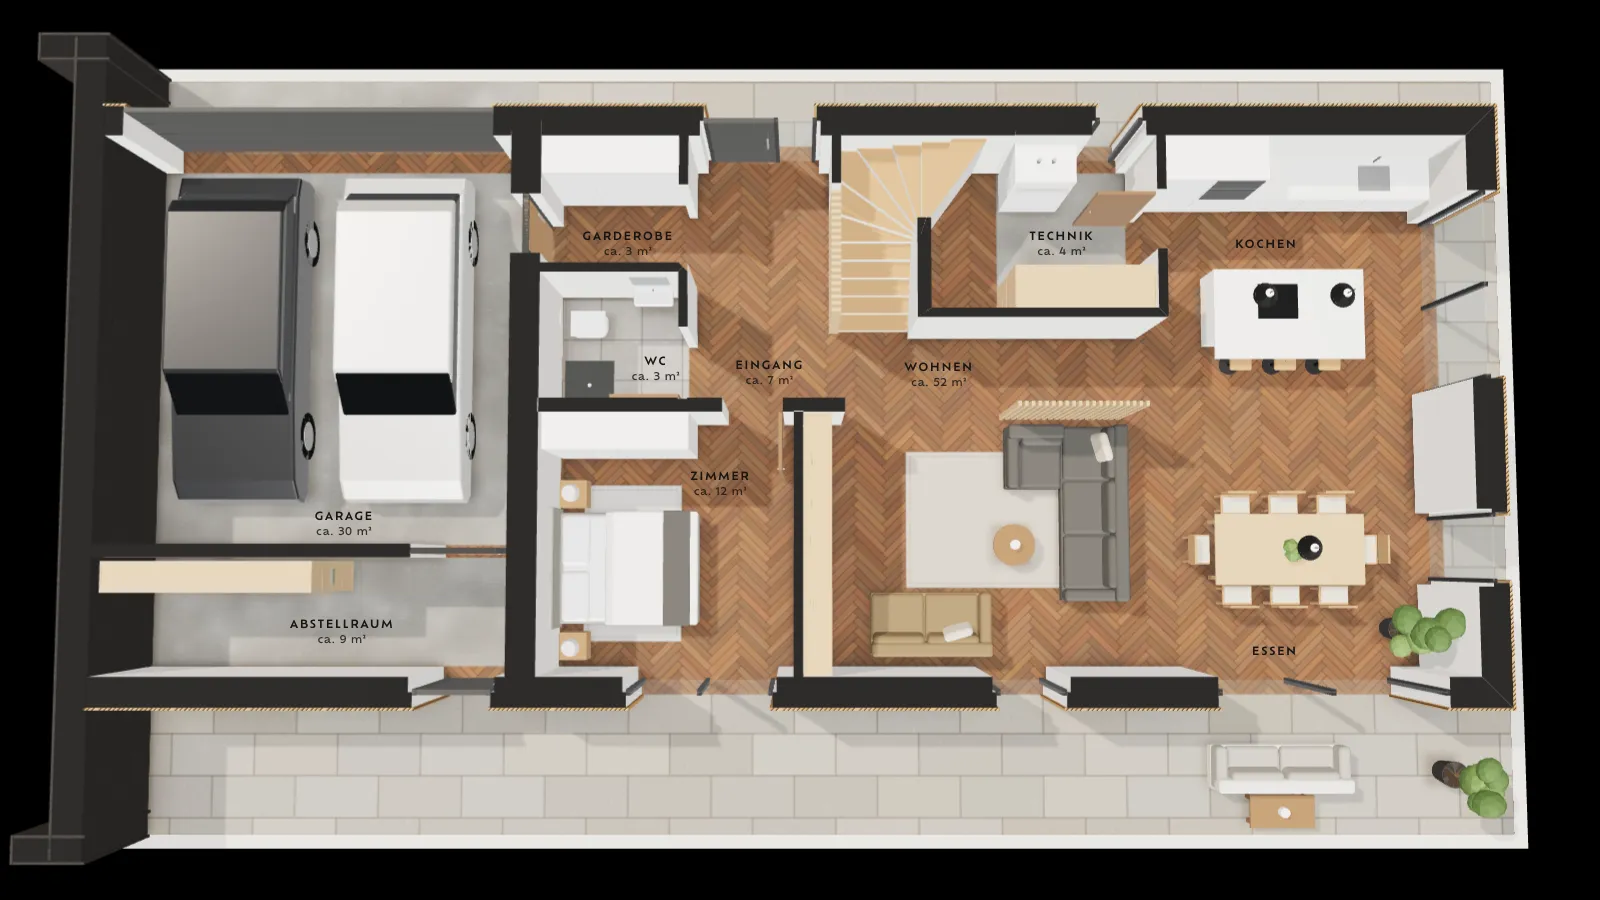
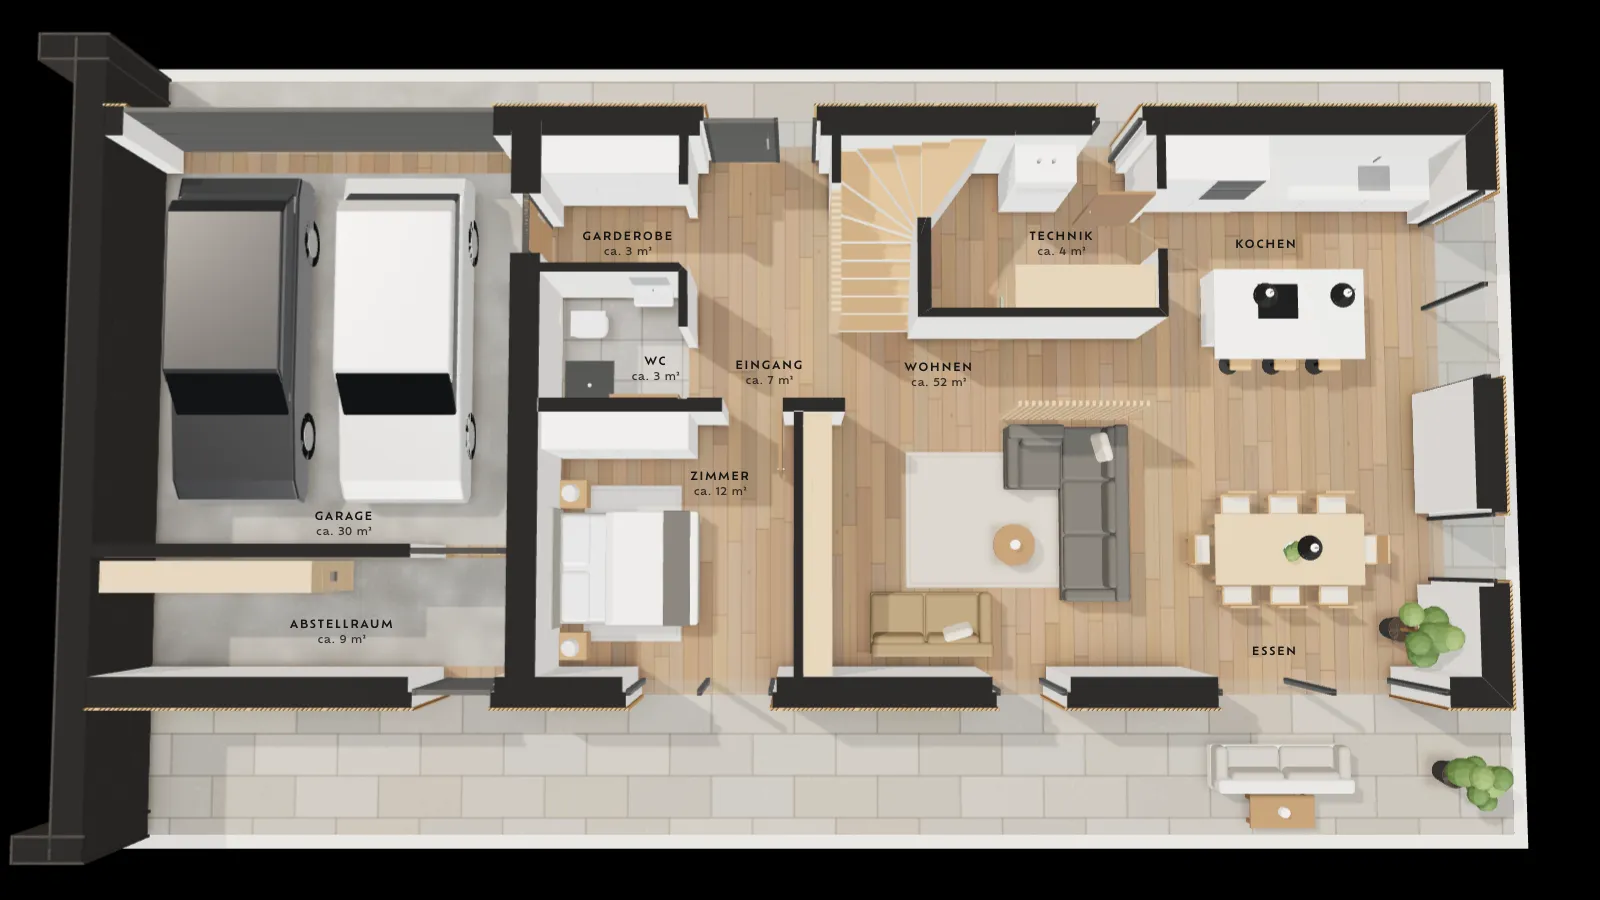
Vorschau aktualisiert 2026-11-09 14:47

diff --git a/data/grundriss-light.js b/data/grundriss-light.js
@@ -4,16 +4,16 @@
    (gemessen an der Ostwand und der Nordwand, die in beiden Plänen übereinander stehen).
    Flächen: die Pläne nennen die Nettoraumflächen nach DIN 277, die stehen als a genau so in der Liste (ohne „ca.“).
    Material nach den Bildern: unten heller gespaltener Kalkstein, Holz im Osten (Nordseite neben dem Eingang, Ostseite, Südseite
-   zwischen den Fenstern, Runde 40), oben helles Holz, dunkle Latten neben dem Eingang und am Carport,
-   zwei dünne Flachdächer mit dunkler Kante, Glasgeländer auf der Terrasse, Carport mit Holzlamellen. Böden: unten heller
-   Stein, oben helle Eiche, Bäder in Stein.
+   zwischen den Fenstern, Runde 40), oben helles Holz, dunkle Latten am Carport,
+   zwei dünne Flachdächer mit dunkler Kante, Glasgeländer auf der Terrasse, Carport mit Holzlamellen. Böden: Parkett in Eiche
+   wie in allen Häusern, Bäder und WC in Stein (Runde 41).
    Nicht im Plan, aber auf den Bildern: der Pool im Süden und Fenster des Büros nach Norden (Plan gilt). */
 const yl = (a, b, n) => Array.from({ length: n + 1 }, (_, i) => +(a + (b - a) * i / n).toFixed(2));
 export default {
   name: 'Light', key: 'light',
   K: 28.35,
   h: { eg: 2.8, og: 2.7, slab: .35, cut: 2.1 },
-  floor: 'stein',
+  floor: 'eiche',
   desc: 'Erdgeschoß in hellem Stein und Holz, Obergeschoß in Holz, zwei flache Dächer und die Terrasse oben.',
   build: 'Das Haus wird gebaut: erst das Erdgeschoß, dann die Vordächer, das Obergeschoß und das Dach.',
   floors: [
@@ -43,15 +43,15 @@ export default {
         { n: 'Büro', a: 11.92, r: [[627.9, 128.7, 727.1, 225.2]], at: [655, 200] },
         { n: 'Eingang', a: 9.25, r: [[492.5, 128.7, 624.4, 183.8]], at: [590, 165] },
         { n: 'Technik', list: 'Technik, Hauswirtschaft und Speis', a: 10.69, r: [[429.5, 189, 524.5, 252.8], [528, 189, 559.8, 264.7]], at: [470, 220] },
-        { n: 'WC', list: 'WC mit Dusche', a: 4.08, r: [[429.5, 128.7, 489, 183.8]], at: [468, 168] },
+        { n: 'WC', list: 'WC mit Dusche', a: 4.08, f: 'stein', r: [[429.5, 128.7, 489, 183.8]], at: [468, 168] },
         { n: 'Terrasse', f: 'platten', r: [[523.2, 355.5, 769.4, 434.9]], at: [600, 410], out: 1 },
         { n: 'Carport', f: 'beton', r: [[249.5, 95.8, 418.1, 245]], at: [330, 225], out: 1 }
       ],
       rugs: [[636, 262, 66, 58, 'kalk'], [392, 360, 80, 48, 'sand']],
       windows: [
-        /* Runde 40: kleines Fenster hoch im Stein, Eingang mit dunklem Flügel im Osten und Glas daneben (Bild 8) */
+        /* Runde 40: kleines Fenster hoch im Stein; Eingang (Runde 41): dunkler Flügel im Osten so breit wie das Glas daneben */
         [454.5, 117.2, 475.3, 128.7, 1.65, 2.4, 'glas'],
-        [562.5, 117.2, 620.1, 128.7, 0, 2.65, 'tuer', { leaf: .55, at: 'r', c: 'dunkel' }],
+        [562.5, 117.2, 620.1, 128.7, 0, 2.65, 'tuer', { leaf: 1.016, at: 'r', c: 'dunkel' }],
         [727.1, 150.8, 738.5, 205.6, .5, 2.4, 'glas'],
         [727.1, 258.7, 738.5, 313.4, 0, 2.4, 'glas'],
         [535, 344.1, 618.1, 355.5, 0, 2.5, 'glas', { sp: 1 }],
@@ -100,8 +100,7 @@ export default {
         ['osofa', 700, 412, 54, 18, { f: 'n' }],
         /* Carport: Holzlamellen zwischen den Wandscheiben im Westen */
         ['slats', 240.5, 135.7, 6, 78, { h: 2.8, gap: .26, fin: .07 }],
-        /* Runde 40 (Bild 8): dunkle Latten unter dem Vordach, östlich vom Eingang und am Ende der Steinwand zum Carport */
-        ['slats', 620.1, 112.7, 36, 4.5, { h: 2.8, gap: .25, fin: .07, c: 'dunkel' }],
+        /* Runde 40 (Bild 8): dunkle Latten unter dem Vordach am Ende der Steinwand zum Carport (die neben dem Eingang sind seit Runde 41 weg) */
         ['slats', 388.5, 112.7, 29.6, 4.5, { h: 2.8, gap: .26, fin: .09, c: 'dunkel' }]
       ],
       cars: [[285.5, 155.5, 133, 51, 0xE9E7E2, 's'], [360, 157, 138, 54, 0x3f4042, 's']],
@@ -120,7 +119,7 @@ export default {
       key: 'og', name: 'Obergeschoß', short: 'OG', geo: 'plan-og',
       crop: [315, 100, 768, 450], off: [17.3, -9.9],
       out: { x0: [400.8, 321.2], x1: [721.3, 761], y0: [127.1, 289.2, 358.3], y1: [365.4, 445.2] },
-      skin: 'holzhell', baseSide: 'anthrazit', floor: 'eichehell',
+      skin: 'holzhell', baseSide: 'anthrazit',
       skins: [[315, 285, 405, 450, 'anthrazit'], [395, 435, 765, 450, 'anthrazit'], [715, 355, 765, 450, 'anthrazit']],
       house: [400.8, 127.1, 721.3, 365.4],
       base: [[400.8, 127.1, 721.3, 365.4], [321.2, 289.2, 400.8, 445.2], [400.8, 365.4, 761, 445.2], [721.3, 358.3, 761, 365.4]],

diff --git a/data/grundriss-bold.js b/data/grundriss-bold.js
@@ -3,14 +3,14 @@
    Wände aus data/plan-geo.js (plan-bold-eg, plan-bold-og); das Obergeschoß liegt um off [8,5; −25] verschoben
    (gemessen am Treppenauge, das oben genau über der Treppe liegt, und am dunklen Rahmen im Osten).
    Material nach den Bildern: senkrechte Holzlatten unten und oben, dunkle dicke Platte über dem Erdgeschoß (auch die Terrasse oben),
-   dunkler Rahmen: im Westen die Wand neben der Garage, im Osten die Stirnwand oben, dunkles Flachdach. Boden Fischgrät, Bäder in Stein.
+   dunkler Rahmen: im Westen die Wand neben der Garage, im Osten die Stirnwand oben, dunkles Flachdach. Boden Parkett in Eiche wie in allen Häusern (Runde 41), Bäder und WC in Stein und Fliesen, Garage in Beton.
    Flächen gibt der Plan nicht als Liste, sie stehen als „ca.“ aus den Rechtecken. */
 const yl = (a, b, n) => Array.from({ length: n + 1 }, (_, i) => +(a + (b - a) * i / n).toFixed(2));
 export default {
   name: 'Bold', key: 'bold',
   K: 28.35,
   h: { eg: 2.9, og: 2.75, slab: .5, cut: 2.1 },
-  floor: 'fischgrat',
+  floor: 'eiche',
   desc: 'Holzlatten unten und oben, dazwischen eine dunkle Platte, oben ein dunkles Flachdach und die Terrasse über der Garage.',
   build: 'Das Haus wird gebaut: erst das Erdgeschoß mit der Garage, dann die dunkle Platte, das Obergeschoß und das Dach.',
   view: [-.7, .4],
@@ -40,7 +40,7 @@ export default {
         { n: 'Eingang', r: [[391.4, 168.5, 449.8, 269.4]], at: [420, 230] },
         { n: 'Garderobe', r: [[335.1, 168.5, 387.8, 217.7]], at: [362, 200] },
         { n: 'WC', f: 'fliese', r: [[335.1, 221.2, 387.8, 269.4]], at: [372, 250] },
-        { n: 'Technik', f: 'beton', r: [[516.5, 168.5, 570.4, 235.1]], at: [545, 200] },
+        { n: 'Technik', r: [[516.5, 168.5, 570.4, 235.1]], at: [545, 200] },
         { n: 'Garage', f: 'beton', r: [[167.8, 168.5, 323.7, 324.5]], at: [245, 300] },
         { n: 'Abstellraum', f: 'beton', r: [[167.8, 329.7, 323.7, 374.2]], at: [245, 352] }
       ],
@@ -127,7 +127,7 @@ export default {
         { f: 'platten', r: [[133.5, 154.5, 155, 467.5], [133.5, 154.5, 691.7, 161], [133.5, 460.4, 691.7, 467.5]] },
         { n: 'Bad', list: 'Bad mit Wanne und Dusche', f: 'stein', r: [[326.7, 193.7, 437.8, 260.7]], at: [380, 232] },
         { n: 'WC', f: 'stein', r: [[326.7, 264.2, 380.2, 295.4]], at: [362, 288] },
-        { n: 'Waschen', f: 'stein', r: [[511.5, 193.7, 579.6, 260.7]], at: [535, 230] },
+        { n: 'Waschen', r: [[511.5, 193.7, 579.6, 260.7]], at: [535, 230] },
         { n: 'Flur', r: [[383.8, 264.2, 579.6, 295.4], [441.3, 260.7, 508, 264.2]], at: [530, 280] },
         { n: 'Kind', list: 'Kind, Westseite', r: [[326.7, 299, 451.4, 399.4]], at: [400, 320] },
         { n: 'Kind', list: 'Kind, Ostseite', r: [[454.9, 299, 579.6, 399.4]], at: [530, 320] },

diff --git a/data/grundriss-free.js b/data/grundriss-free.js
@@ -30,11 +30,11 @@ export default {
         { n: 'Kochen', part: 1, at: [745, 441] },
         { n: 'Sauna', list: 'Sauna und Duschen', f: 'fliese', r: [[382.4, 264.9, 552.5, 358.4]], at: [436, 279] },
         { f: 'fichte', r: [[382.4, 264.9, 467.4, 324.6]] },
-        { n: 'Abstellraum', f: 'beton', r: [[382.4, 363.6, 465.7, 448.1]], at: [426, 418] },
-        { n: 'Technik', f: 'beton', r: [[469.2, 363.6, 552.5, 448.1]], at: [500, 405] },
+        { n: 'Abstellraum', r: [[382.4, 363.6, 465.7, 448.1]], at: [426, 418] },
+        { n: 'Technik', r: [[469.2, 363.6, 552.5, 448.1]], at: [500, 405] },
         { n: 'Garage', f: 'beton', r: [[382.4, 459.5, 552.5, 629.8]], at: [466, 471] },
         { n: 'WC', f: 'fliese', r: [[563.9, 482, 625.7, 520.5]], at: [588, 496] },
-        { n: 'Eingang', list: 'Eingang mit Garderobe', f: 'fliese', r: [[563.9, 577.4, 663.3, 629.8], [629.3, 476.8, 663.3, 577.4], [563.9, 526.9, 625.7, 573.8]], at: [618, 604] },
+        { n: 'Eingang', list: 'Eingang mit Garderobe', r: [[563.9, 577.4, 663.3, 629.8], [629.3, 476.8, 663.3, 577.4], [563.9, 526.9, 625.7, 573.8]], at: [618, 604] },
         { n: 'Speis', f: 'eiche', r: [[668.6, 482, 796.3, 527.4]], at: [726, 497] },
         { n: 'Büro', f: 'eiche', r: [[668.6, 530.9, 796.3, 629.8]], at: [742, 580] },
         { n: 'Terrasse', f: 'platten', r: [[552.5, 196.8, 779.4, 253.5]], at: [662, 226], out: 1 },

diff --git a/data/grundriss-calm.js b/data/grundriss-calm.js
@@ -9,7 +9,7 @@ export default {
   name: 'Calm', key: 'calm',
   K: 28.35,
   h: { eg: 2.75, slab: .3, cut: 2.1 },
-  floor: 'eichehell',
+  floor: 'eiche',
   desc: 'Ein Geschoß in hellem Holz und Ziegel, Satteldach mit dunklen Ziegeln, Carport mit überdachtem Gang zum Eingang.',
   build: 'Das Haus wird gebaut: erst die Wände, dann das Dach und der Carport.',
   view: [-.5, .44],
@@ -35,7 +35,7 @@ export default {
         { n: 'Eingang', list: 'Eingang und Flur', r: [[649.5, 401.8, 703.3, 482.3], [444, 482.3, 631.1, 513.4]], at: [676, 440] },
         { n: 'Speis', r: [[706.8, 401.8, 746.2, 478.7]], at: [735, 440] },
         { n: 'WC', f: 'fliese', r: [[599.2, 401.8, 630.4, 478.7], [630.4, 452, 646, 478.7]], at: [614, 455] },
-        { n: 'Technik', f: 'beton', r: [[536.4, 401.8, 595.7, 478.7]], at: [565, 455] },
+        { n: 'Technik', r: [[536.4, 401.8, 595.7, 478.7]], at: [565, 455] },
         { n: 'Bad', list: 'Duschbad', f: 'fliese', r: [[473.4, 401.8, 532.9, 478.7]], at: [515, 440] },
         { n: 'Bad', list: 'Bad mit Wanne und Dusche', f: 'fliese', r: [[341.3, 401.8, 469.8, 461.7], [444, 461.7, 469.8, 478.7]], at: [405, 440] },
         { n: 'Ankleide', r: [[341.3, 465.2, 440.5, 531.5]], at: [390, 500] },
